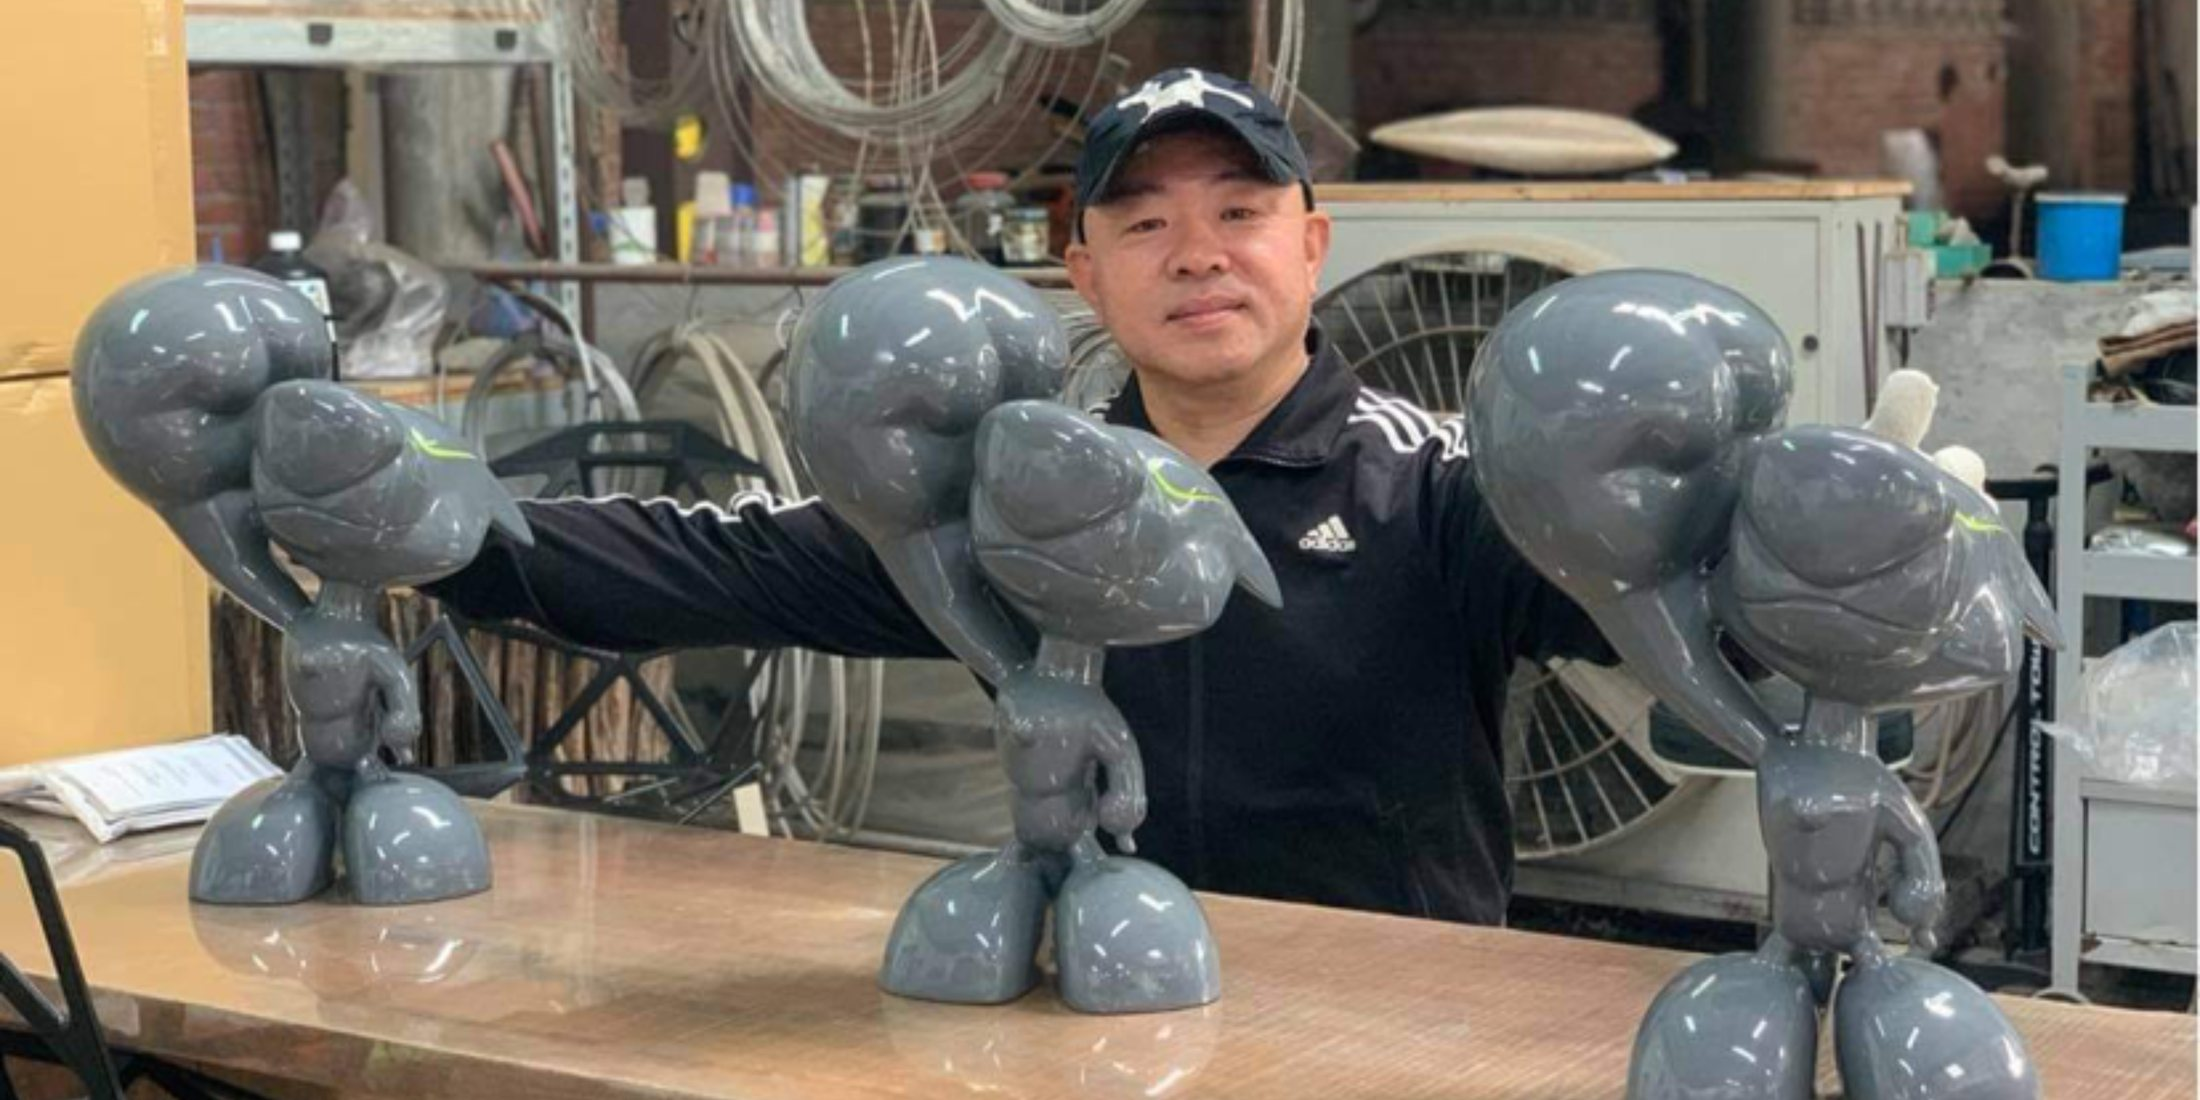
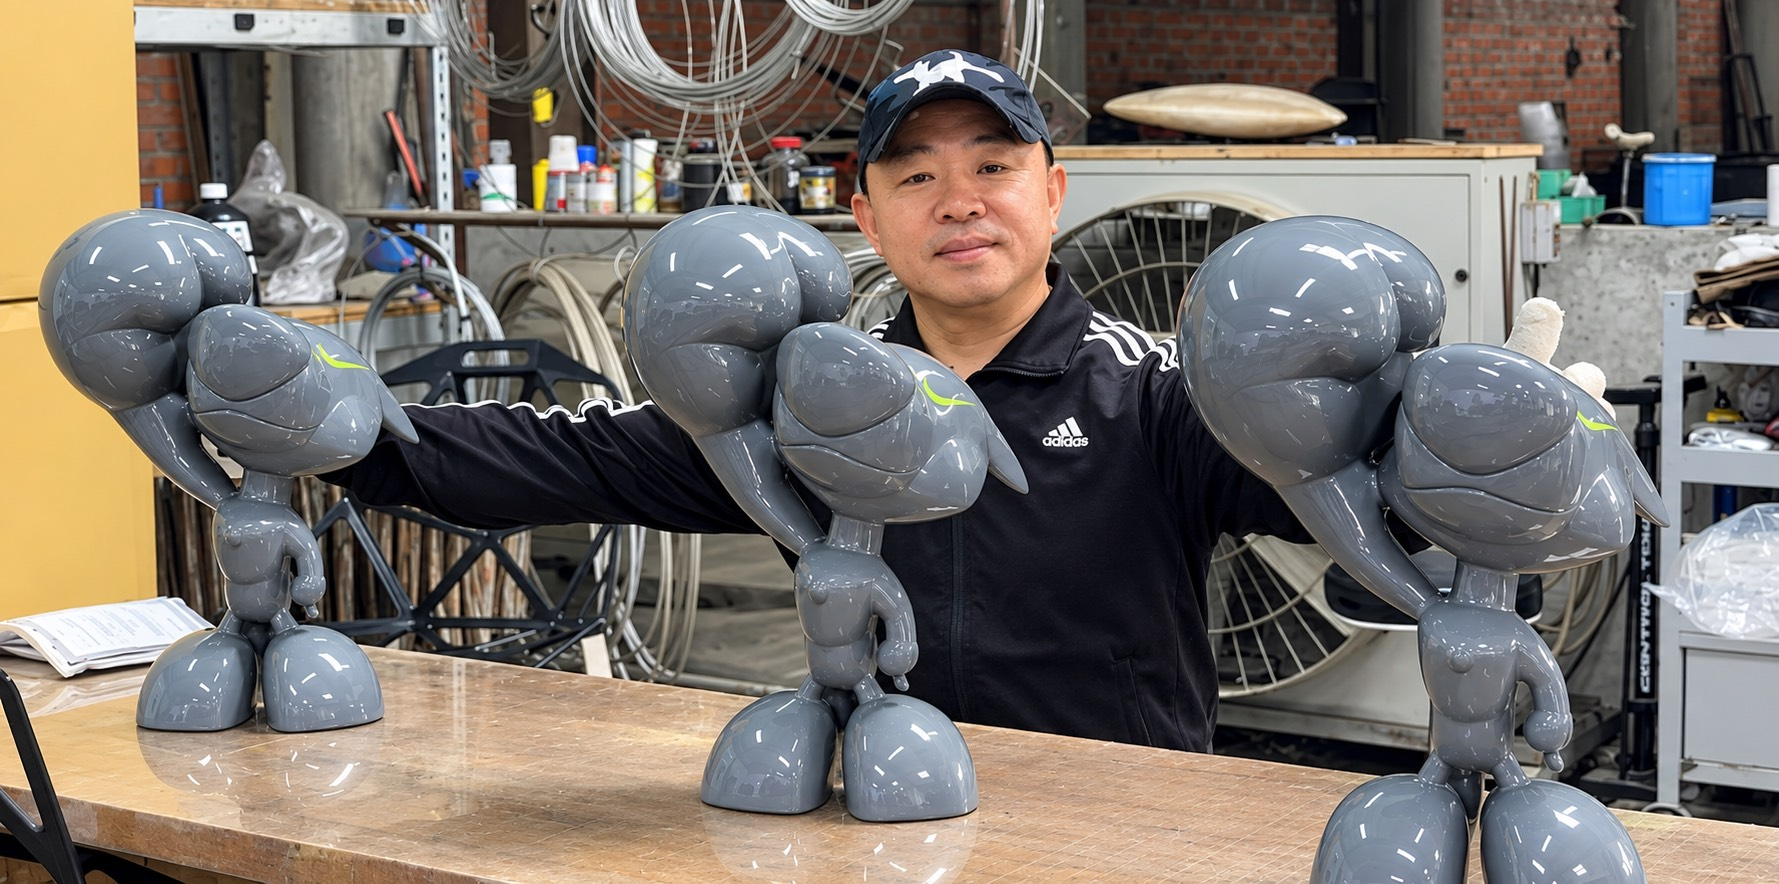
Fix home works links and update image break

diff --git a/assets/site.js b/assets/site.js
@@ -304,6 +304,16 @@ if(stage){
       return;
     }
   });
+  stage.querySelectorAll('.work-panel[href]').forEach(panel=>{
+    panel.addEventListener('click',event=>{
+      if(suppressStageClick){
+        event.preventDefault();
+        return;
+      }
+      event.preventDefault();
+      location.href=panel.href;
+    });
+  });
   stage.insertAdjacentHTML('beforeend','<a class="more-panel" href="works.html">view more...</a>');
 }
 
